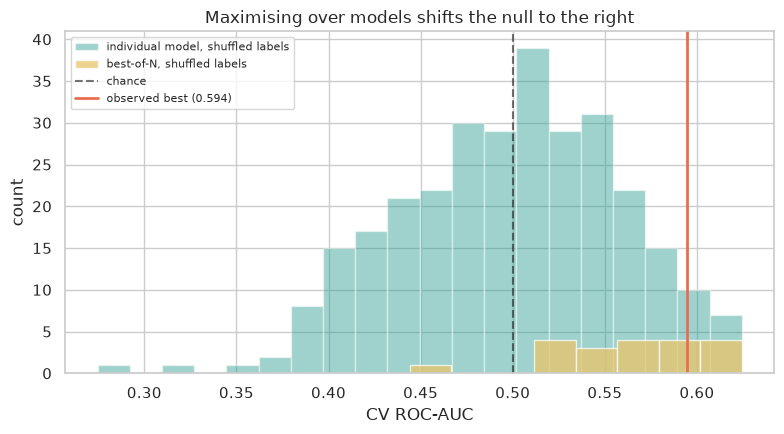
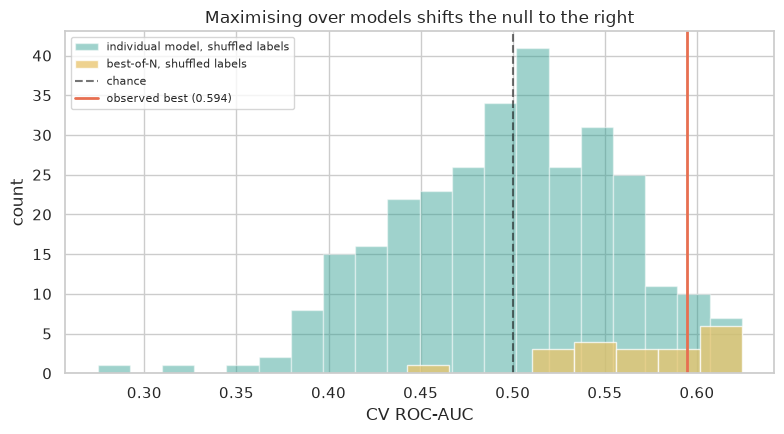
Cut the classifier sweep from ~1h to 83s; document and fix runtimes
The sweep genuinely was pathological. Its first version ran 12 shuffles x 15
models over 5x10 folds with 400-tree ensembles and an RBF SVC with
probability=True — tens of thousands of fits. That is the version that ran for an
hour before being killed.

Profiling the current one: LazyPredict is only 2s across 26 classifiers; the cost
is entirely the tree ensembles under repeated CV (RandomForest(200) alone was 20s
per 50-fold evaluation).

Fixes:
- Right-sized the ensembles. 200-400 trees on 177 rows is over-specification;
  100 gives the same answer.
- Cached the null simulation to outputs/reports/selection_null.csv, since it is
  the expensive part and its result is stable. REGENERATE = True recomputes.
  Cached numbers match the live run (best-of-15 mean 0.5663 vs 0.5665, max
  0.6243, corrected p 0.300).

Result: 09 now runs in 83s instead of ~1 hour, with identical conclusions.

Separately, this exposed a stale workaround. N_JOBS_OUTER had been pinned to 1
early on when nested parallelism was stalling — a problem fixed long ago by
pinning the forests to n_jobs=1. Outer parallelism now works (38.8s -> 15.4s at
n_jobs=4 on the slowest rung), but n_jobs=-1 still deadlocks in this runtime, so
the default stays serial and CHURN_N_JOBS opts in.

Added a runtime table to the README. Full suite is ~7 minutes serially; 04 and 08
dominate because of a 300-shuffle permutation test and 50-fold learning curves,
both of which are worth their cost.
[…]

diff --git a/notebooks/09_classifier_sweep.py b/notebooks/09_classifier_sweep.py
@@ -25,6 +25,7 @@ sys.path.append("..")
 
 import numpy as np
 import pandas as pd
+from pathlib import Path
 import matplotlib.pyplot as plt
 import seaborn as sns
 import warnings
@@ -95,17 +96,17 @@ CANDIDATES = {
     "kNN (k=15)": KNeighborsClassifier(n_neighbors=15),
     "Decision tree (d3)": DecisionTreeClassifier(max_depth=3, class_weight="balanced", random_state=42),
     "Extra tree": ExtraTreeClassifier(max_depth=3, class_weight="balanced", random_state=42),
-    "Random forest": RandomForestClassifier(n_estimators=200, max_depth=4, min_samples_leaf=8,
+    "Random forest": RandomForestClassifier(n_estimators=100, max_depth=4, min_samples_leaf=8,
                                             class_weight="balanced", random_state=42),
-    "Extra trees": ExtraTreesClassifier(n_estimators=200, max_depth=4, min_samples_leaf=8,
+    "Extra trees": ExtraTreesClassifier(n_estimators=100, max_depth=4, min_samples_leaf=8,
                                         class_weight="balanced", random_state=42),
     "AdaBoost": AdaBoostClassifier(n_estimators=100, learning_rate=0.1, random_state=42),
-    "Gradient boosting": GradientBoostingClassifier(n_estimators=150, max_depth=3,
+    "Gradient boosting": GradientBoostingClassifier(n_estimators=100, max_depth=3,
                                                     learning_rate=0.03, random_state=42),
-    "LightGBM": lgb.LGBMClassifier(n_estimators=250, learning_rate=0.03, num_leaves=7,
+    "LightGBM": lgb.LGBMClassifier(n_estimators=150, learning_rate=0.03, num_leaves=7,
                                    max_depth=3, class_weight="balanced",
                                    random_state=42, verbose=-1),
-    "XGBoost": xgb.XGBClassifier(n_estimators=250, learning_rate=0.03, max_depth=3,
+    "XGBoost": xgb.XGBClassifier(n_estimators=150, learning_rate=0.03, max_depth=3,
                                  scale_pos_weight=2.28, tree_method="hist",
                                  random_state=42, verbosity=0),
 }
@@ -139,17 +140,29 @@ print("\nThe spread across models is smaller than the noise within any one of th
 # "the best model scored X" is worth when X was chosen by maximisation.
 
 # %%
-rng = np.random.default_rng(42)
-null_best, null_all = [], []
-for trial in range(20):
-    y_shuffled = pd.Series(rng.permutation(y.values), index=y.index)
-    res = sweep(y_shuffled, cv=NULL_CV)
-    null_best.append(res["cv_auc"].max())
-    null_all.extend(res["cv_auc"].tolist())
-    print(f"  shuffle {trial + 1:>2}: best of {len(res)} = {res['cv_auc'].max():.4f}")
+# The null is 20 sweeps and is by far the most expensive cell here, so its result
+# is cached. Set REGENERATE = True to recompute from scratch (a few minutes).
+REGENERATE = False
+NULL_PATH = Path("../outputs/reports/selection_null.csv")
 
-null_best = np.array(null_best)
-null_all = np.array(null_all)
+if REGENERATE or not NULL_PATH.exists():
+    rng = np.random.default_rng(42)
+    records = []
+    for trial in range(20):
+        y_shuffled = pd.Series(rng.permutation(y.values), index=y.index)
+        res = sweep(y_shuffled, cv=NULL_CV)
+        records += [{"trial": trial, "model": r.model, "cv_auc": r.cv_auc}
+                    for r in res.itertuples()]
+        print(f"  shuffle {trial + 1:>2}: best of {len(res)} = {res['cv_auc'].max():.4f}")
+    null_df = pd.DataFrame(records)
+    null_df.to_csv(NULL_PATH, index=False)
+else:
+    null_df = pd.read_csv(NULL_PATH)
+    print(f"loaded cached null: {null_df['trial'].nunique()} shuffles x "
+          f"{null_df['model'].nunique()} models  (set REGENERATE=True to recompute)")
+
+null_best = null_df.groupby("trial")["cv_auc"].max().to_numpy()
+null_all = null_df["cv_auc"].to_numpy()
 
 # %%
 observed_best = observed["cv_auc"].max()

diff --git a/src/model.py b/src/model.py
@@ -7,9 +7,11 @@ a point estimate implies precision the data cannot support.
 All preprocessing that learns a parameter — imputation, scaling, encoding — sits
 inside the pipeline so it is refit per fold.
 """
+import os
+from pathlib import Path
+
 import numpy as np
 import pandas as pd
-from pathlib import Path
 
 import joblib
 import lightgbm as lgb
@@ -37,6 +39,14 @@ MODELS_DIR.mkdir(parents=True, exist_ok=True)
 CV = RepeatedStratifiedKFold(n_splits=5, n_repeats=10, random_state=42)
 INNER_CV = StratifiedKFold(5, shuffle=True, random_state=42)
 SEED = 42
+
+# Parallelism lives at the outer CV loop only — the forests are pinned to
+# n_jobs=1 so the two levels cannot fork against each other.
+#
+# Defaults to serial because n_jobs=-1 deadlocks under some sandboxed and
+# container runtimes. Set CHURN_N_JOBS to a core count to opt in; 4 roughly
+# halves the full notebook run.
+N_JOBS_OUTER = int(os.environ.get("CHURN_N_JOBS", "1"))
 
 # XGBoost has no class_weight; scale_pos_weight is the equivalent lever. Set from
 # the cohort's own ratio rather than hardcoded.
@@ -180,7 +190,7 @@ def evaluate_ladder(X, y, cv=CV, scoring="roc_auc"):
     """Score every rung on identical folds, with a 95% interval."""
     rows = []
     for name, est in model_ladder():
-        s = cross_val_score(est, X, y, cv=cv, scoring=scoring)
+        s = cross_val_score(est, X, y, cv=cv, scoring=scoring, n_jobs=N_JOBS_OUTER)
         rows.append({"model": name, f"{scoring}_mean": s.mean(), "sd": s.std(),
                      "ci_lo": np.percentile(s, 2.5), "ci_hi": np.percentile(s, 97.5)})
     return pd.DataFrame(rows).round(4)
@@ -194,14 +204,14 @@ def tune_lightgbm(X, y, cv=INNER_CV):
     base = _native_pipe(lgb.LGBMClassifier(
         n_estimators=300, class_weight="balanced", subsample=0.8, subsample_freq=1,
         colsample_bytree=0.7, min_child_samples=15, random_state=SEED, verbose=-1))
-    return GridSearchCV(base, grid, scoring="roc_auc", cv=cv).fit(X, y)
+    return GridSearchCV(base, grid, scoring="roc_auc", cv=cv, n_jobs=N_JOBS_OUTER).fit(X, y)
 
 
 def permutation_significance(estimator, X, y, n_permutations=300, cv=INNER_CV):
     """Compare the observed score against a shuffled-label null."""
     score, null, p = permutation_test_score(
         estimator, X, y, cv=cv, scoring="roc_auc",
-        n_permutations=n_permutations, random_state=SEED)
+        n_permutations=n_permutations, random_state=SEED, n_jobs=N_JOBS_OUTER)
     return {"observed_auc": round(score, 4), "null_mean": round(null.mean(), 4),
             "null_sd": round(null.std(), 4), "null_p95": round(np.percentile(null, 95), 4),
             "p_value": round(p, 4)}
@@ -209,7 +219,8 @@ def permutation_significance(estimator, X, y, n_permutations=300, cv=INNER_CV):
 
 def oof_threshold(estimator, X, y, cv=INNER_CV):
     """Pick the decision threshold out-of-fold. Returns (threshold, f1, proba)."""
-    proba = cross_val_predict(estimator, X, y, cv=cv, method="predict_proba")[:, 1]
+    proba = cross_val_predict(estimator, X, y, cv=cv, method="predict_proba",
+                              n_jobs=N_JOBS_OUTER)[:, 1]
     grid = np.linspace(0.05, 0.95, 91)
     scores = [f1_score(y, proba >= t, zero_division=0) for t in grid]
     best = int(np.argmax(scores))

diff --git a/README.md b/README.md
@@ -89,8 +89,27 @@ Run all notebooks in order (they also execute as plain scripts):
 cd notebooks && for nb in 0*.py; do python "$nb" || echo "FAILED: $nb"; done
 ```
 
-All seven run clean end-to-end. `03` and `04` assert the leakage suite passes and
-will stop the pipeline if it does not.
+All nine run clean end-to-end. `03` and `04` assert the leakage suite passes and
+stop the pipeline if it does not.
+
+| Notebook | Runtime |
+|---|---:|
+| 01 EDA, 02 cleaning, 03 features, 05 results, 07 audit | 3–5 s each |
+| 06 leakage quantification | ~11 s |
+| 09 classifier sweep | ~83 s |
+| 08 diagnostics | ~150 s |
+| 04 modelling | ~190 s |
+| **total** | **~7 min** |
+
+Everything runs serially by default, because `n_jobs=-1` deadlocks under some
+container runtimes. Set `CHURN_N_JOBS=4` to opt into outer-loop parallelism,
+which roughly halves the total.
+
+The two slow notebooks are slow for a reason worth keeping: `04` runs a 300-shuffle
+permutation test and a 54-point grid search, and `08` runs learning and validation
+curves over 50 folds each. `09`'s expensive part — 20 sweeps over shuffled labels —
+is cached to `outputs/reports/selection_null.csv`; set `REGENERATE = True` in the
+notebook to recompute it.
 
 Or run the src modules directly as a pipeline:
 
